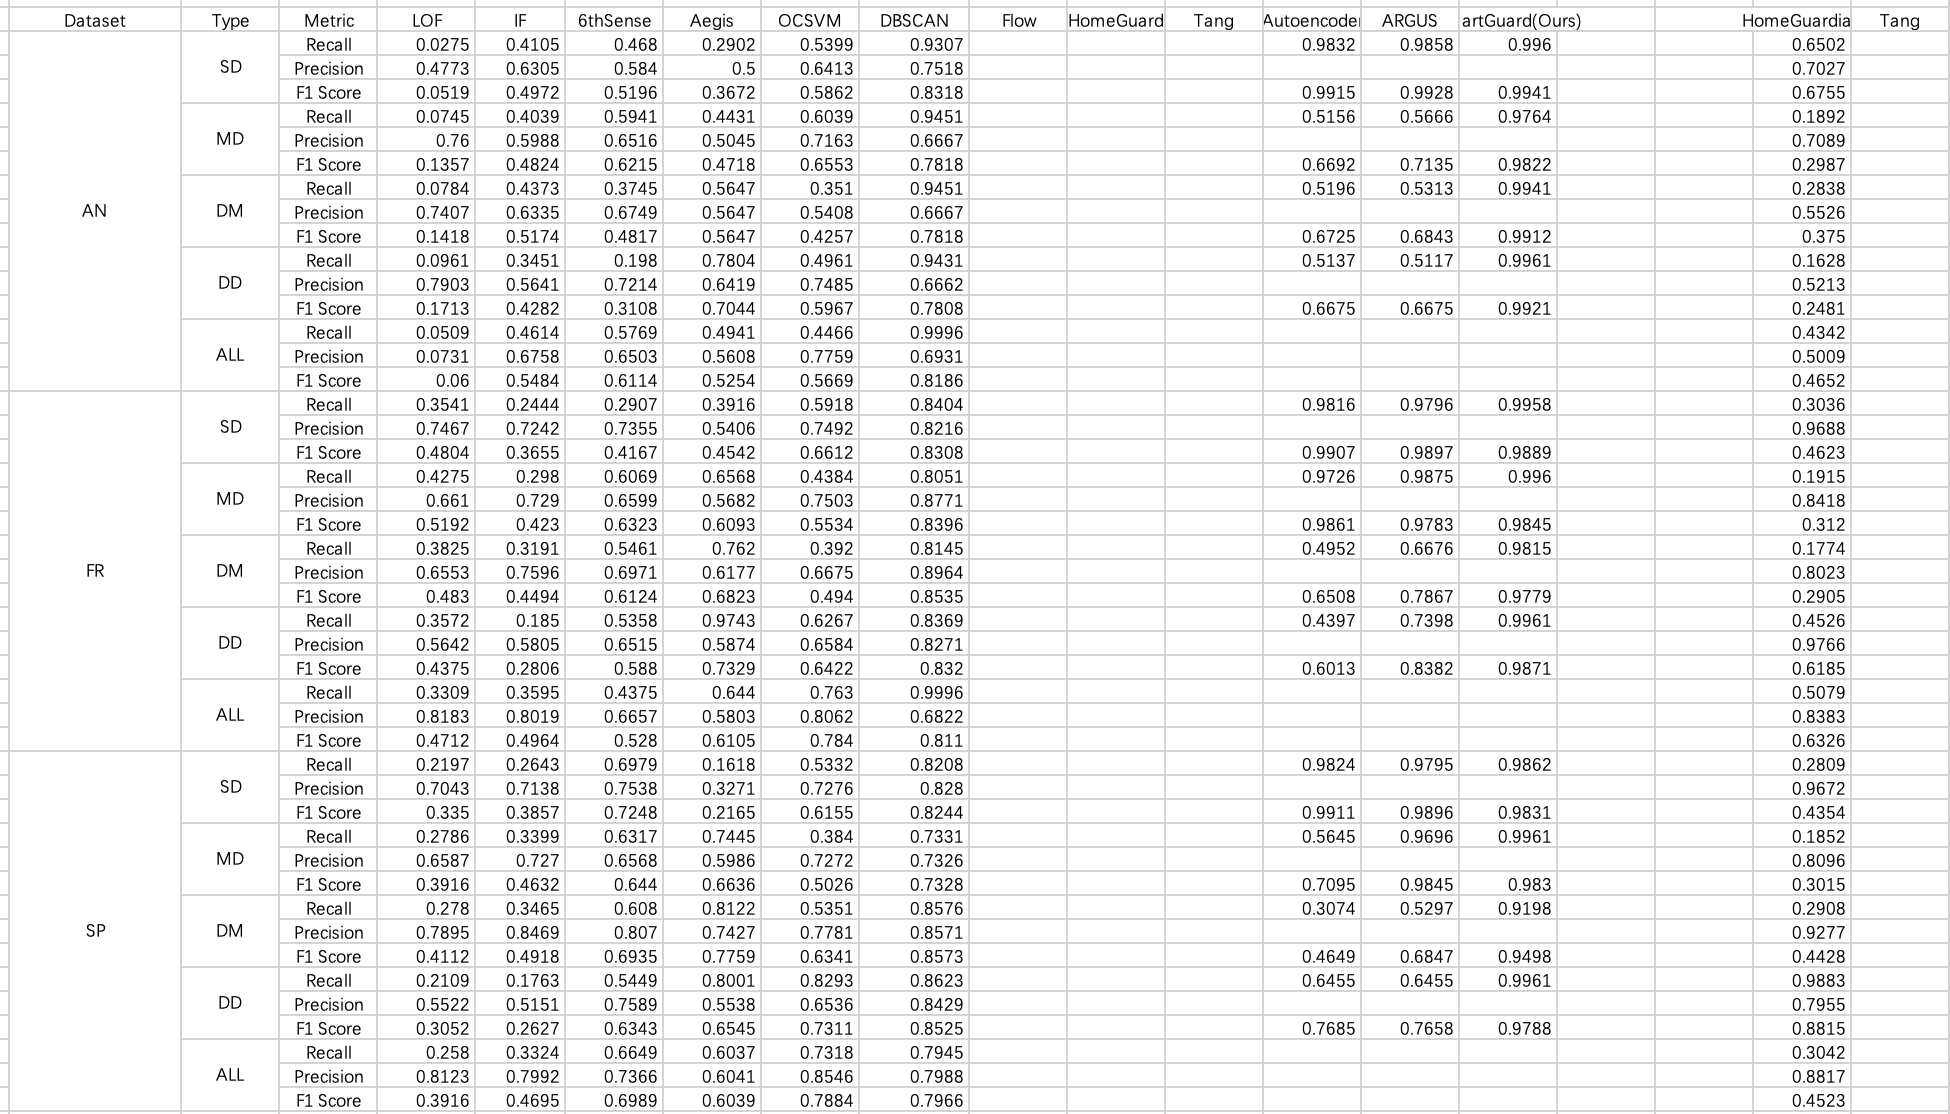
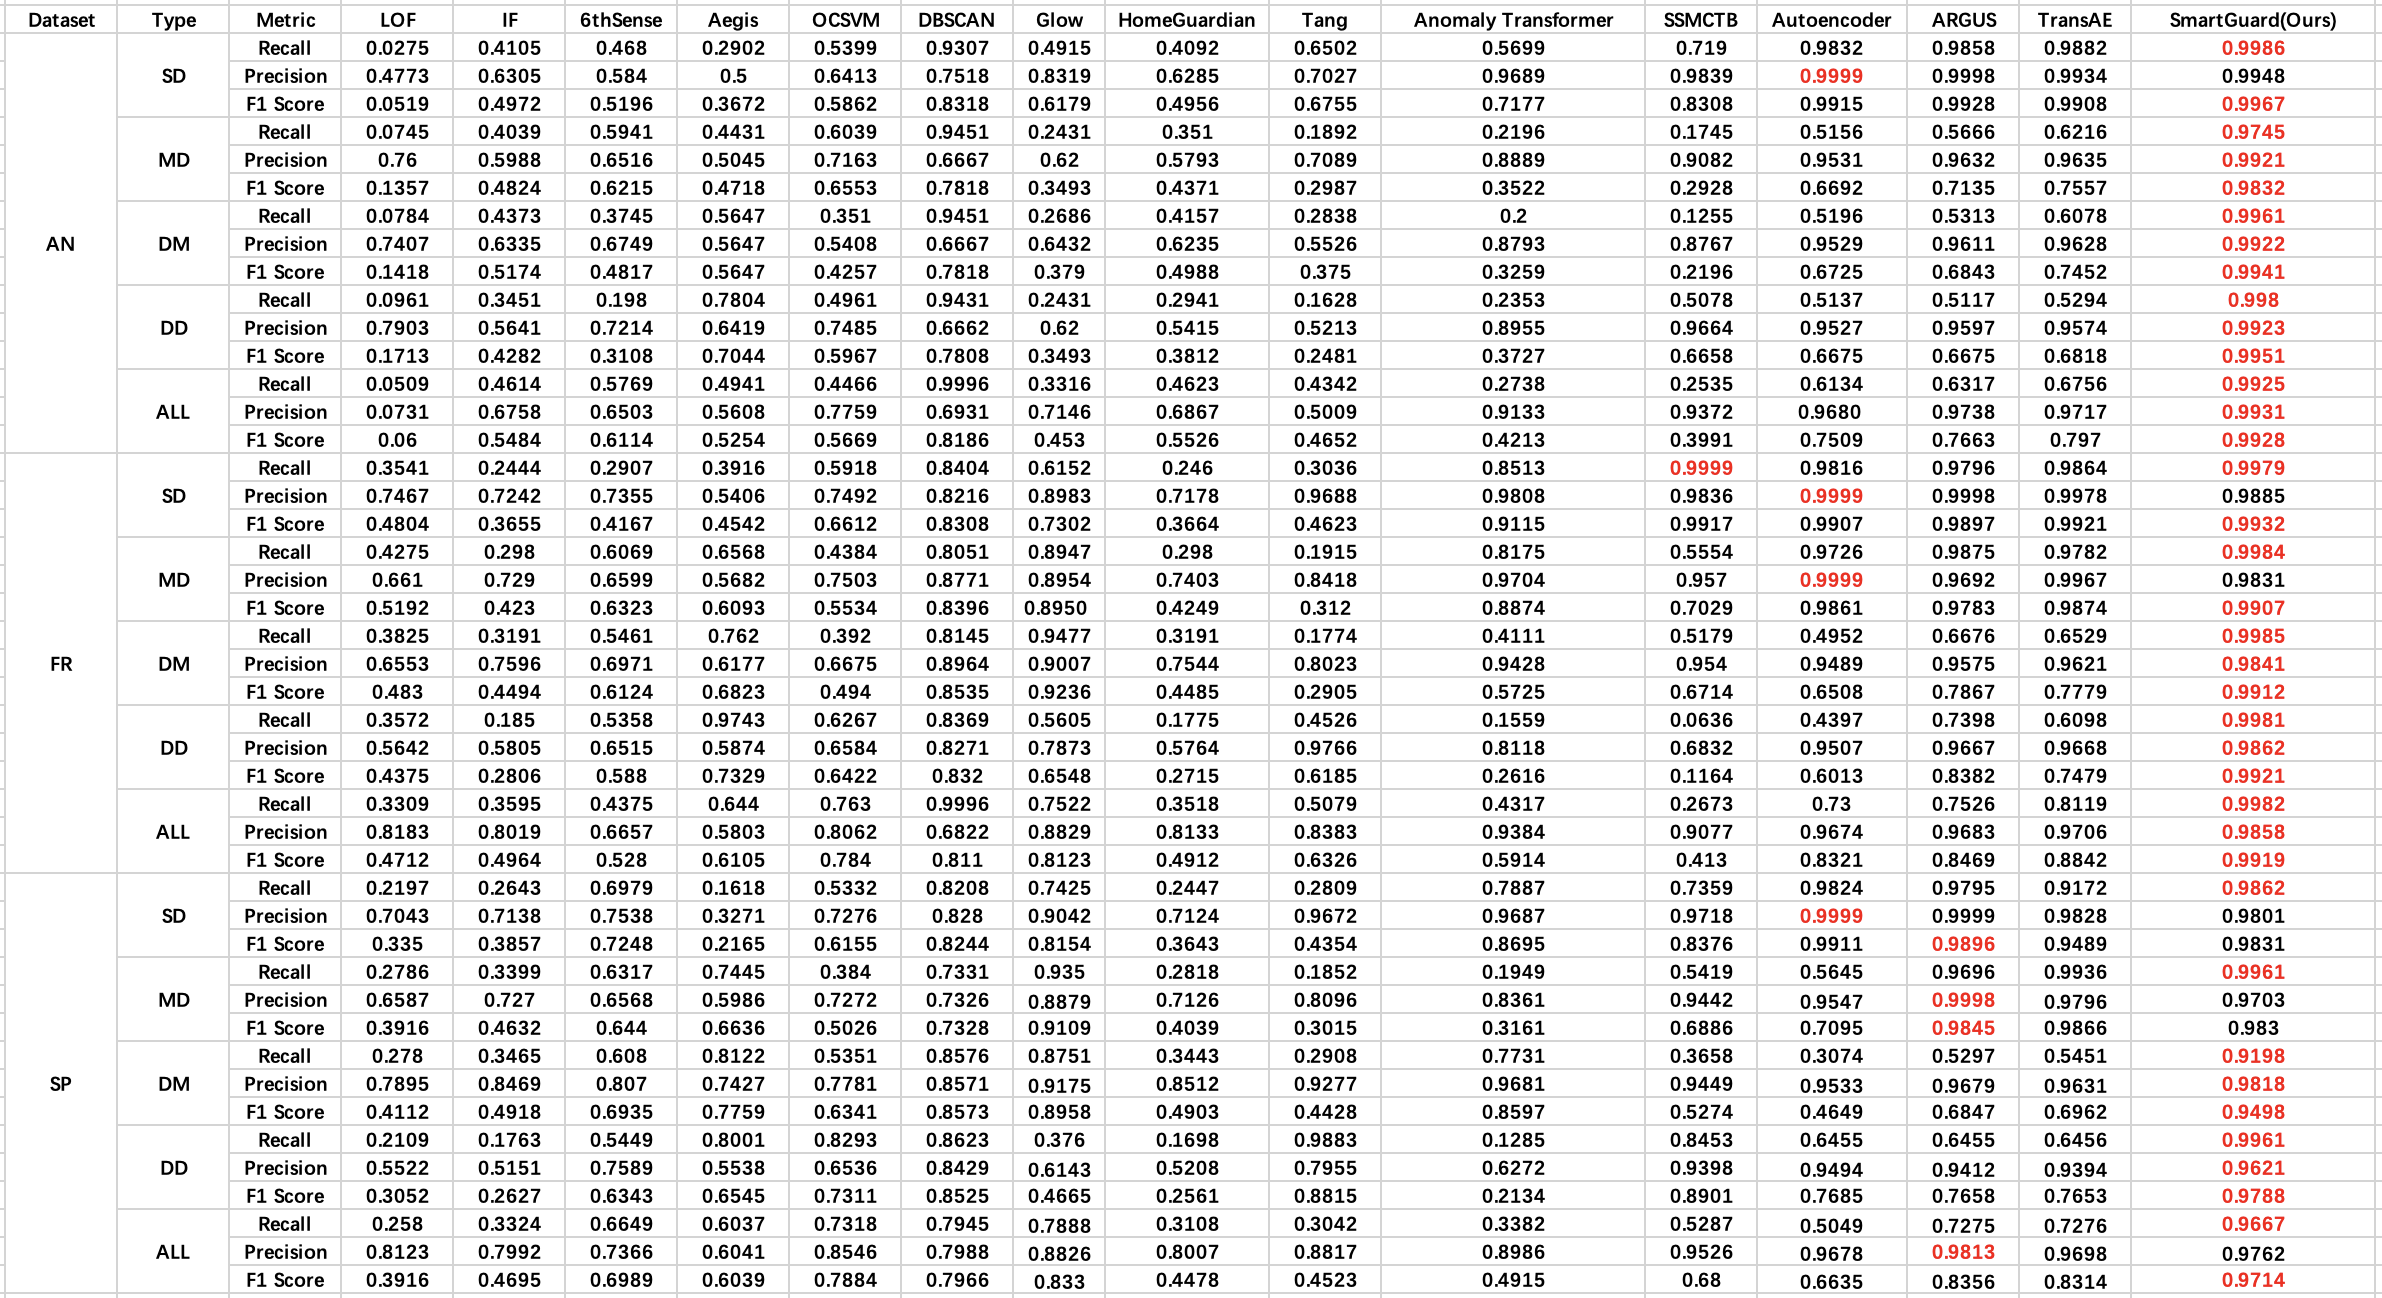
change baselines

diff --git a/Rebuttal.md b/Rebuttal.md
@@ -14,7 +14,7 @@ We make following changes about baseline table:
 (4) We add non-mL anomaly detection methods as baselines (**Response to RevieweroMtJ**):
     
 - desity-based models: DBSCAN
-- normaizing flow: 
+- normaizing flow: Glow: Kingma, Durk P., and Prafulla Dhariwal. "Glow: Generative flow with invertible 1x1 convolutions." Advances in neural information processing systems 31 (2018).
 
 (5) We add some supervised learning models (**Response to ReviewerZGNc**):
     
